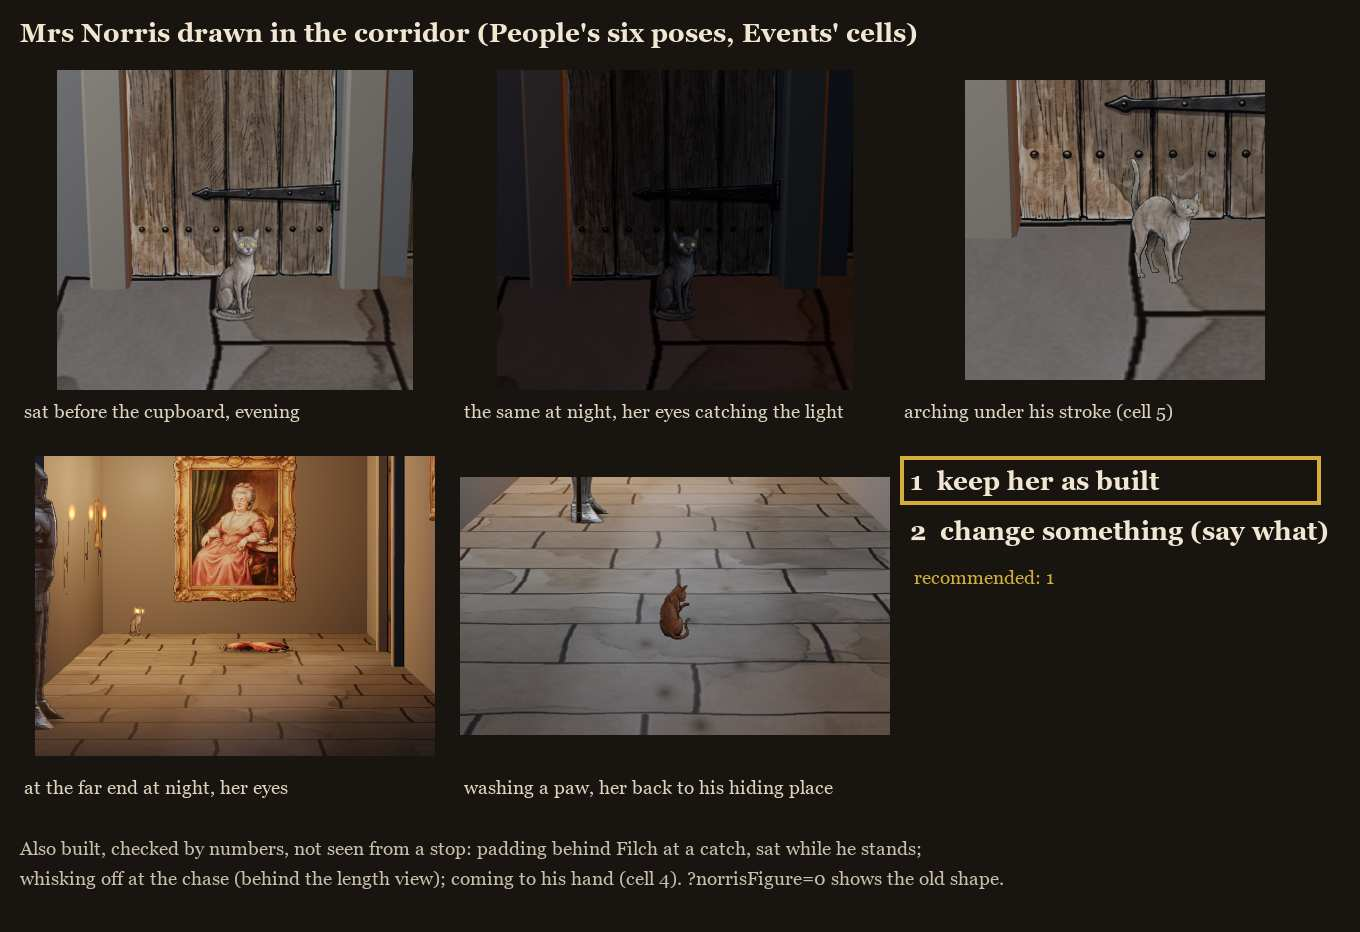
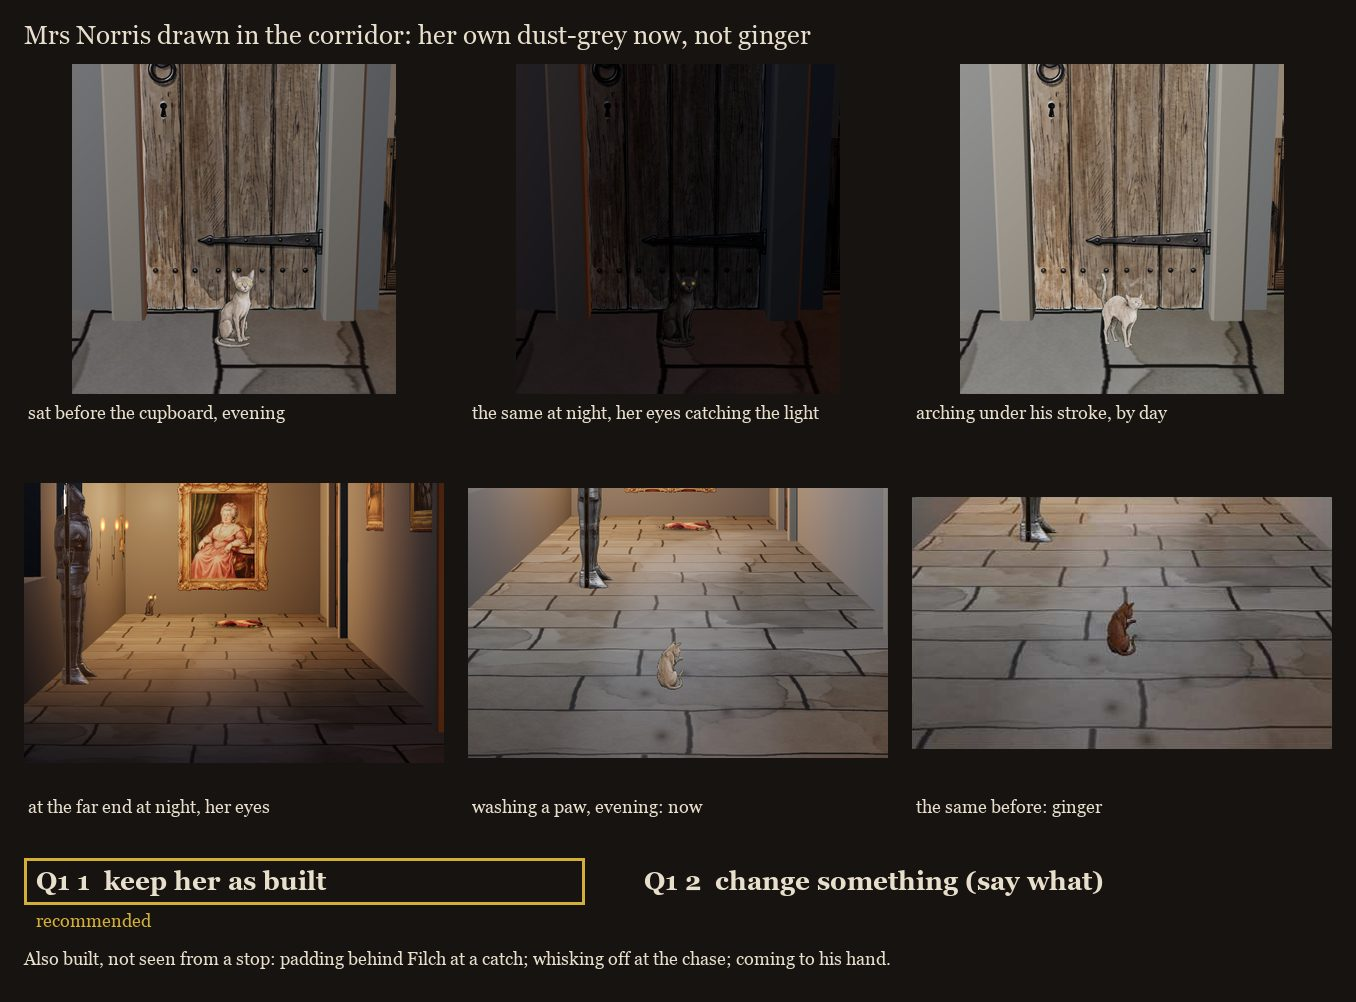
Corridor: Mrs Norris's own grey (archive cf71fd63)

diff --git a/page/corridor.html b/page/corridor.html
@@ -3637,12 +3637,21 @@ function updateNorris(dt) {
    her feet stay on the flags. Cell 1's eyes measured once on the atlas (x from the card's middle, y from her feet, at the
    still scale): the glints sit on them. ?norrisFigure=0 keeps the code-drawn cat for a look */
 var NORRIS_FIG = { on: groundsQ.get('norrisFigure') !== '0' && !SET_ASIDE, w: 929 / 1548, h: 1082 / 1548, still: 1548 / 3200, n: 6,
-  eyeX: 0.041, eyeY: 0.28, eyeGap: 0.037 };
+  eyeX: 0.041, eyeY: 0.28, eyeGap: 0.037, fill: 1, nightFill: 0.04, lit: 0.3 };
+/* her own grey: her card faces the eye with the corridor's light behind her, so it took mostly the warm bounce off the
+   flags and read ginger; a neutral fill of her own drawing (fill by day, nightFill at full night, updateNight), the
+   room's light on her turned down (lit), keeps her dust-grey (PS 8) by day and evening and dim at night */
+function norrisFill(k) {
+  [norrisDoor.card, norris.card].forEach(function (m) {
+    if (m) m.material.emissive.setScalar(NORRIS_FIG.fill * (1 - k) + NORRIS_FIG.nightFill * k);
+  });
+}
 function norrisCard(name) {
   var sheet = new THREE.TextureLoader().load('../assets/layers/norris-figure.png');
   sheet.encoding = THREE.sRGBEncoding; sheet.anisotropy = 4;
   var m = new THREE.Mesh(new THREE.PlaneGeometry(NORRIS_FIG.w, NORRIS_FIG.h), new THREE.MeshStandardMaterial({ map: sheet,
-    roughness: 0.95, metalness: 0, transparent: true, alphaTest: 0.5, side: THREE.DoubleSide, opacity: 0 }));
+    emissiveMap: sheet, emissive: new THREE.Color(NORRIS_FIG.fill, NORRIS_FIG.fill, NORRIS_FIG.fill),
+    color: new THREE.Color(NORRIS_FIG.lit, NORRIS_FIG.lit, NORRIS_FIG.lit), roughness: 0.95, metalness: 0, transparent: true, alphaTest: 0.5, side: THREE.DoubleSide, opacity: 0 }));
   m.name = name; m.userData.peak = 1; m.userData.cell = -1;
   return m;
 }
@@ -4381,6 +4390,7 @@ function updateNight(dt) {
   scene.fog.color.copy(NIGHT.fog0).lerp(NIGHT.dark, k); scene.background.copy(NIGHT.bg0).lerp(NIGHT.dark, k);
   if (BEAMS.mat) BEAMS.mat.emissive.copy(col(BEAMS.boards)).multiplyScalar(BEAMS.bounce * (1 - k));   /* the nook's boards by day */
   NIGHT.torchBoost = 1 + 0.35 * k;
+  if (NORRIS_FIG.on) norrisFill(k);
   /* the suit's torchlight: every torch near it hangs on its own wall, in line with its card, so their light grazes it
      edge on and by night it went near black; the steel takes their warmth back off the walls instead (ARMOUR_BOUNCE
      at full night), its own drawing lit by it */
